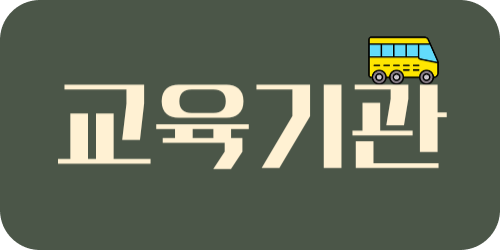
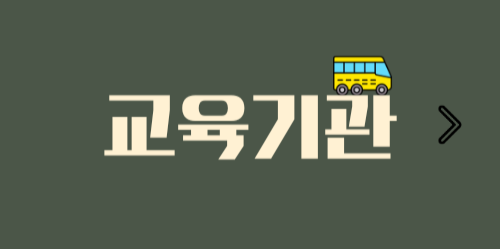
feat: 육아 정보 페이지

diff --git a/workspace/frontend/mpick/src/app/(parenting)/parenting/page.tsx b/workspace/frontend/mpick/src/app/(parenting)/parenting/page.tsx
@@ -2,41 +2,135 @@
 import { Button } from "@nextui-org/react";
 import Image from "next/image";
 import nursing from "../../../../public/nursing.png";
+import nursing1 from "../../../../public/nursing1.png";
+import nursing2 from "../../../../public/nursing2.png";
+import nursing3 from "../../../../public/nursing3.png";
 import meal from "../../../../public/meal.png";
+import meal1 from "../../../../public/meal1.png";
+import meal2 from "../../../../public/meal2.png";
+import meal3 from "../../../../public/meal3.png";
+import education from "../../../../public/education.png";
 import education1 from "../../../../public/education1.png";
 import education2 from "../../../../public/education2.png";
+import education3 from "../../../../public/education3.png";
+import education22 from "../../../../public/education22.png";
 import Carousel from "react-material-ui-carousel";
 import Link from "next/link";
+import { useParentingStore } from "@/store/ParentingStore";
+import { useMediaQuery } from "react-responsive";
+import banner1 from "../../../../public/month/banner1.png";
+import banner2 from "../../../../public/month/banner2.png";
+import banner3 from "../../../../public/month/banner3.png";
+import banner4 from "../../../../public/month/banner4.png";
+import banner5 from "../../../../public/month/banner5.png";
+import banner6 from "../../../../public/month/banner6.png";
 
 export default function ParentingInfo() {
+  const { parenting, setParenting } = useParentingStore();
+  const isMobile = useMediaQuery({ maxWidth: 767 });
+
   return (
     <div>
       <Carousel
         cycleNavigation={true}
         navButtonsAlwaysInvisible={true}
         autoPlay={true}
-        className="rounded-xl"
         animation={"slide"}
         interval={5000}
+        indicators={false}
       >
         <a target="_blank" href="https://www.childcare.go.kr/cpin/main1.jsp" rel="noreferrer">
-          <img src="/month/banner1.png" alt="아이사랑" className="w-full h-full"></img>
+          <Image
+            src={banner1}
+            alt="아이사랑"
+            layout="responsive"
+            width={isMobile ? 512 : 768}
+            height={isMobile ? 767 : 1024}
+            priority
+          ></Image>
         </a>
         <a target="_blank" href="https://central.childcare.go.kr/ccef/main.jsp" rel="noreferrer">
-          <img src="/month/banner2.png" alt="중앙종합육아지원센터" className="w-full h-full"></img>
+          <Image
+            src={banner2}
+            alt="중앙종합육아지원센터"
+            layout="responsive"
+            width={isMobile ? 512 : 768}
+            height={isMobile ? 767 : 1024}
+          ></Image>
+        </a>
+        <a target="_blank" href="https://www.bokjiro.go.kr/ssis-tbu/index.do" rel="noreferrer">
+          <Image
+            src={banner3}
+            alt="복지로"
+            layout="responsive"
+            width={isMobile ? 512 : 768}
+            height={isMobile ? 767 : 1024}
+          ></Image>
+        </a>
+        <a target="_blank" href="https://i-love.or.kr/zine/" rel="noreferrer">
+          <Image
+            src={banner4}
+            alt="웹진 아이사랑"
+            layout="responsive"
+            width={isMobile ? 512 : 768}
+            height={isMobile ? 767 : 1024}
+          ></Image>
+        </a>
+        <a target="_blank" href="https://nip.kdca.go.kr/irhp/index.jsp" rel="noreferrer">
+          <Image
+            src={banner5}
+            alt="예방접종 도우미"
+            layout="responsive"
+            width={isMobile ? 512 : 768}
+            height={isMobile ? 767 : 1024}
+          ></Image>
+        </a>
+        <a target="_blank" href="https://blog.naver.com/papanet4you" rel="noreferrer">
+          <Image
+            src={banner6}
+            alt="아빠넷"
+            layout="responsive"
+            width={isMobile ? 512 : 768}
+            height={isMobile ? 767 : 1024}
+          ></Image>
         </a>
       </Carousel>
-
-      <Link href="/parenting/detail" passHref className="flex flex-col justify-center items-center">
-        <Image src={nursing} alt="수유" className="mb-6 mt-6 w-4/5"></Image>
+      <Link href="/parenting/detail" passHref onClick={() => setParenting("수유")}>
+        <Image
+          src={nursing1}
+          alt="수유"
+          layout="responsive"
+          width={isMobile ? 512 : 768}
+          height={isMobile ? 767 : 1024}
+        ></Image>
       </Link>
-      <Link href="/parenting/detail" passHref className="flex flex-col justify-center items-center">
-        <Image src={meal} alt="식단" className="mb-6 w-4/5"></Image>
+      <Link href="/parenting/detail" passHref onClick={() => setParenting("식단")}>
+        <Image
+          src={meal1}
+          alt="식단"
+          layout="responsive"
+          width={isMobile ? 512 : 768}
+          height={isMobile ? 767 : 1024}
+        ></Image>
       </Link>
-      <Link href="/parenting/detail" passHref className="flex flex-col justify-center items-center">
-        <Image src={education2} alt="교육기관" className="mb-6 w-4/5"></Image>
+      <Link href="/parenting/detail" passHref onClick={() => setParenting("교육기관")}>
+        <Image
+          src={education1}
+          alt="교육기관"
+          layout="responsive"
+          width={isMobile ? 512 : 768}
+          height={isMobile ? 767 : 1024}
+        ></Image>
       </Link>
-      <Image src={education1} alt="교육" className="mb-6"></Image>
+      {/* <Link href="/parenting/detail" passHref onClick={() => setParenting("교육기관")}>
+        <Image
+          src={education22}
+          alt="교육"
+          layout="responsive"
+          width={isMobile ? 512 : 768}
+          height={isMobile ? 767 : 1024}
+        ></Image>
+      </Link> */}
     </div>
   );
 }

diff --git a/workspace/frontend/mpick/src/app/(parenting)/parenting/detail/page.tsx b/workspace/frontend/mpick/src/app/(parenting)/parenting/detail/page.tsx
@@ -1,7 +1,18 @@
+"use client";
+
+import { useParentingStore } from "@/store/ParentingStore";
+import Nursing from "./Nursing";
+import Meal from "./Meal";
+import Education from "./Education";
+
 export default function Detail() {
+  const { parenting } = useParentingStore();
+  console.log("뭐게", parenting);
   return (
     <div>
-      <h1>하이</h1>
+      {parenting === "수유" && <Nursing />}
+      {parenting === "식단" && <Meal />}
+      {parenting === "교육기관" && <Education />}
     </div>
   );
 }

diff --git a/workspace/frontend/mpick/src/store/ParentingStore.ts b/workspace/frontend/mpick/src/store/ParentingStore.ts
@@ -1,0 +1,11 @@
+import { create } from "zustand";
+
+interface Parentingstate {
+  parenting: string;
+  setParenting: (parenting: string) => void;
+}
+
+export const useParentingStore = create<Parentingstate>((set) => ({
+  parenting: "",
+  setParenting: (parenting: string) => set({ parenting }),
+}));

diff --git a/workspace/frontend/mpick/src/app/(parenting)/parenting/layout.tsx b/workspace/frontend/mpick/src/app/(parenting)/parenting/layout.tsx
@@ -5,6 +5,7 @@ export default function ParentingLayout({ children }: { children: React.ReactNod
     <>
       {children}
       <NavBar />
+      <div style={{ height: "77px", position: "sticky", bottom: "0" }}></div>
     </>
   );
 }

diff --git a/workspace/frontend/mpick/src/app/(parenting)/parenting/detail/Education.tsx b/workspace/frontend/mpick/src/app/(parenting)/parenting/detail/Education.tsx
@@ -1,0 +1,7 @@
+export default function Education() {
+  return (
+    <div>
+      <h1>교육기관</h1>
+    </div>
+  );
+}

diff --git a/workspace/frontend/mpick/src/app/(parenting)/parenting/detail/Nursing.tsx b/workspace/frontend/mpick/src/app/(parenting)/parenting/detail/Nursing.tsx
@@ -1,0 +1,7 @@
+export default function Nursing() {
+  return (
+    <div>
+      <h1>수유</h1>
+    </div>
+  );
+}

diff --git a/workspace/frontend/mpick/src/app/(parenting)/parenting/detail/Meal.tsx b/workspace/frontend/mpick/src/app/(parenting)/parenting/detail/Meal.tsx
@@ -1,0 +1,7 @@
+export default function Meal() {
+  return (
+    <div>
+      <h1>식단</h1>
+    </div>
+  );
+}
